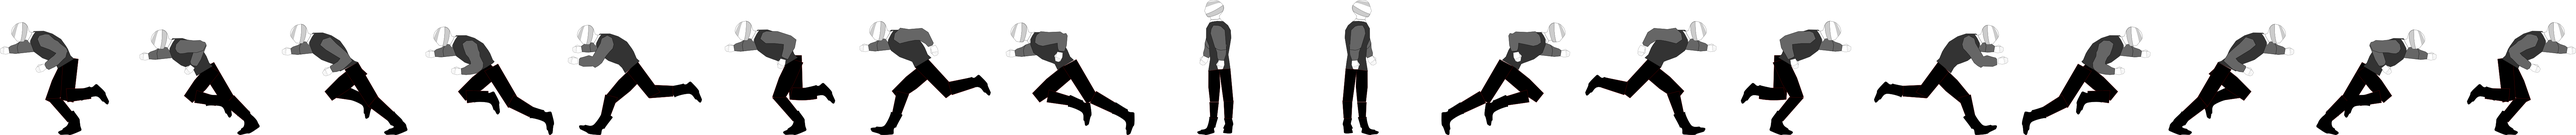
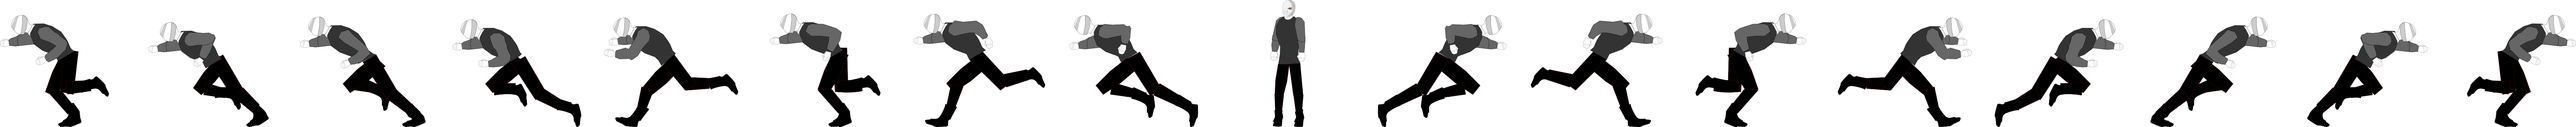
sprite updates

Changed region(s): [[0.0, 0.059, 1.0, 1.0], [0.4674, 0.0, 0.5298, 0.0295], [0.9037, 0.9732, 0.9349, 1.0]]

diff --git a/assets/scripts/index.js b/assets/scripts/index.js
@@ -5,9 +5,9 @@ function preload () {
 	this.load.image('courtyard', 'assets/courtyard3.png');
 	this.load.image('ground','assets/art/tiles/stone_ground_tile.png');
 	this.load.image('platform','assets/platform.png');
-	this.load.spritesheet('dude', 'assets/dude.png', { frameWidth: 32, frameHeight: 48 })
-	this.load.spritesheet('dude2', 'assets/dude2.png', { frameWidth: 51.4, frameHeight: 64 })
-	this.load.spritesheet('runningDude', 'assets/runningDude.png', { frameWidth: 420, frameHeight: 394 })
+	this.load.spritesheet('dude', 'assets/dude.png', { frameWidth: 32, frameHeight: 48 });
+	this.load.spritesheet('dude2', 'assets/dude2.png', { frameWidth: 51.4, frameHeight: 64 });
+	this.load.spritesheet('runningDude', 'assets/runningDude.png', { frameWidth: 445, frameHeight: 373 });
 
 	this.load.image('arc', 'assets/art/img/arc.png');
 	this.load.image('particleWhiteCircle', 'assets/art/img/particleWhiteCircle.png'); 	
@@ -20,7 +20,6 @@ function create () {
 	this.counter = 0;
 	this.cursors = this.input.keyboard.createCursorKeys();
 
-	//this.add.image(512,384,'sky').setScale(1); 
 	this.add.image(512,384,'courtyard').setScale(1);
 	
 	var platforms = this.physics.add.staticGroup();

diff --git a/assets/scripts/createPlayer.js b/assets/scripts/createPlayer.js
@@ -17,13 +17,13 @@ var createPlayer = function(obj, platforms){
 	
 	obj.anims.create({
 		key: 'turn',
-		frames: [ {key: 'runningDude', frame: 7 } ],
+		frames: [ {key: 'runningDude', frame: 8 } ],
 		frameRate:20,
 	});
 
 	obj.anims.create({
 		key: 'right',
-		frames: obj.anims.generateFrameNumbers('runningDude', { start: 10, end: 17 } ),
+		frames: obj.anims.generateFrameNumbers('runningDude', { start: 9, end: 17 } ),
 		frameRate:10,
 		repeat: -1
 	});
